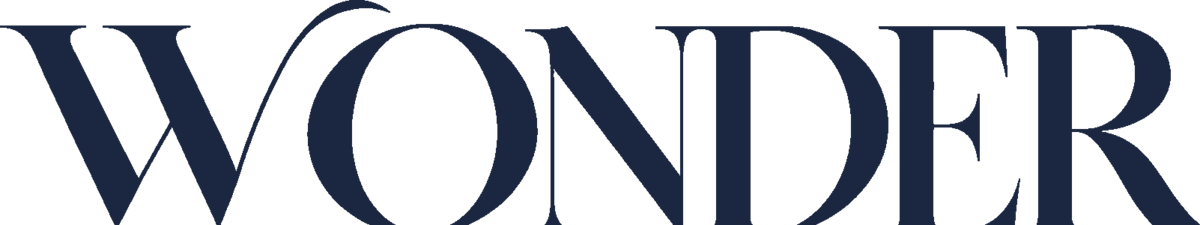
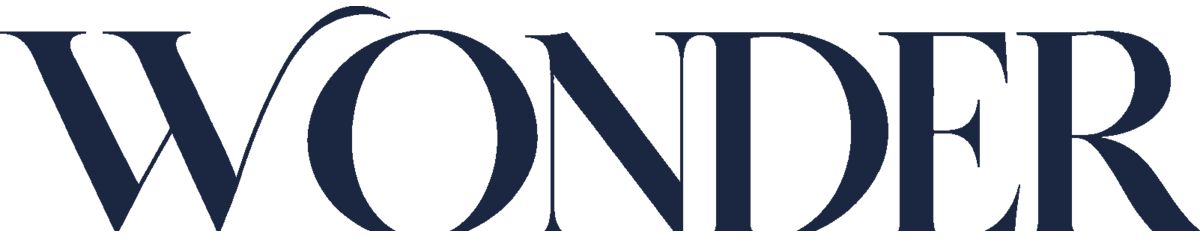
WONDER: fix the clipped Library wordmark
The navy WONDER wordmark art had its glyphs flush against the bottom of the
file, so the Library heading rendered with its lower edge cut off. Add
transparent breathing room above and below the navy wordmark and bump its
display widths (Library heading and the contents page) to keep the same visual
size, now fully shown. The ivory wordmark on the approved cover is unchanged.

Claude-Session: https://claude.ai/code/session_01FVpjWAyjdDE8YjAWpcG1Ng

diff --git a/src/wonder.css b/src/wonder.css
@@ -89,7 +89,7 @@
 /* ── CONTENTS ── */
 .wndr-sheet { max-width:780px; margin:0 auto; padding:clamp(28px,4.5vw,50px) clamp(24px,5vw,44px) clamp(56px,8vw,80px); }
 .wndr-toc-wordmark { text-align:center; margin:clamp(8px,2vw,18px) 0 clamp(22px,4vw,34px); }
-.wndr-toc-wordmark img { width:min(54%,290px); height:auto; margin:0 auto; display:block; }
+.wndr-toc-wordmark img { width:min(60%,324px); height:auto; margin:0 auto; display:block; }
 .wndr-runhead { display:flex; justify-content:space-between; align-items:baseline; font-family:'Jost',sans-serif; font-size:10px; letter-spacing:.3em; text-transform:uppercase; color:rgba(43,39,35,.5); border-bottom:1px solid rgba(43,39,35,.16); padding-bottom:12px; }
 .wndr-toc-h { font-family:'Playfair Display',serif; font-weight:500; font-size:clamp(30px,6vw,46px); margin:clamp(22px,4vw,34px) 0 2px; text-wrap:balance; }
 .wndr-toc-sub { font-family:'Cormorant Garamond',serif; font-style:italic; font-weight:300; font-size:clamp(17px,2.4vw,22px); color:#9c7a3f; }

diff --git a/src/components/WonderDiscovery.tsx b/src/components/WonderDiscovery.tsx
@@ -226,7 +226,7 @@ export function WonderDiscovery() {
   return (
     <div style={{ textAlign: 'center' }}>
       <div style={{ fontFamily: "'Jost',sans-serif", fontWeight: 400, fontSize: 11, letterSpacing: '0.42em', textTransform: 'uppercase', color: 'rgba(122,94,52,0.72)' }}>The publication of the House</div>
-      <img src={WORD_NAVY} alt="WONDER" style={{ display: 'block', width: 'min(58%,300px)', height: 'auto', margin: 'clamp(16px,2.4vw,26px) auto clamp(12px,1.6vw,18px)' }} />
+      <img src={WORD_NAVY} alt="WONDER" style={{ display: 'block', width: 'min(65%,335px)', height: 'auto', margin: 'clamp(16px,2.4vw,26px) auto clamp(6px,1vw,12px)' }} />
       <div style={{ fontFamily: "'Cormorant Garamond',serif", fontStyle: 'italic', fontSize: 'clamp(17px,1.9vw,24px)', color: 'rgba(122,94,52,0.82)' }}>An editorial publication by Beth Wonder.</div>
 
       <button className="wndr-feature" ref={magRef} onClick={doOpen} aria-label="Open WONDER, Issue 001 — the founding essay">
